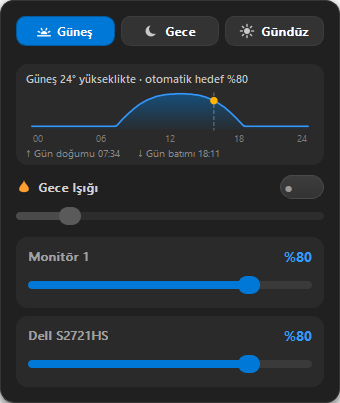
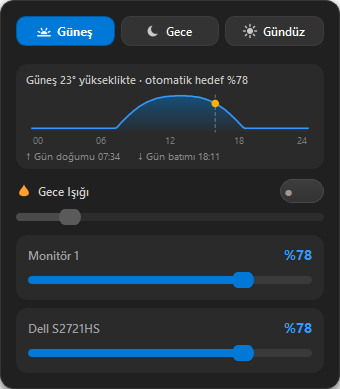
refactor: migrate the GUI from PyQt5 to PyQt6
- Scoped enums (Qt.WindowType.Popup, Qt.AlignmentFlag.AlignCenter, ...)
- QAction/QActionGroup now come from QtGui; exec_() -> exec()
- Drop the AA_EnableHighDpiScaling / AA_UseHighDpiPixmaps attributes
  (always on in Qt6)
- Use font-weight 600 so labels keep the semibold look under Qt6
- Update README badge, requirements.txt and the screenshot

Tested headless with a fake screen_brightness_control (17 checks) and
rendered with real fonts.

diff --git a/README.md b/README.md
@@ -1,7 +1,7 @@
 # ☀ Windows Parlaklık Kontrolü (System Tray App)
 
 ![Python](https://img.shields.io/badge/Python-3.8+-blue.svg)
-![GUI](https://img.shields.io/badge/GUI-PyQt5-green.svg)
+![GUI](https://img.shields.io/badge/GUI-PyQt6-green.svg)
 ![OS](https://img.shields.io/badge/OS-Windows-0078D7.svg)
 ![License](https://img.shields.io/badge/License-MIT-orange.svg)
 
